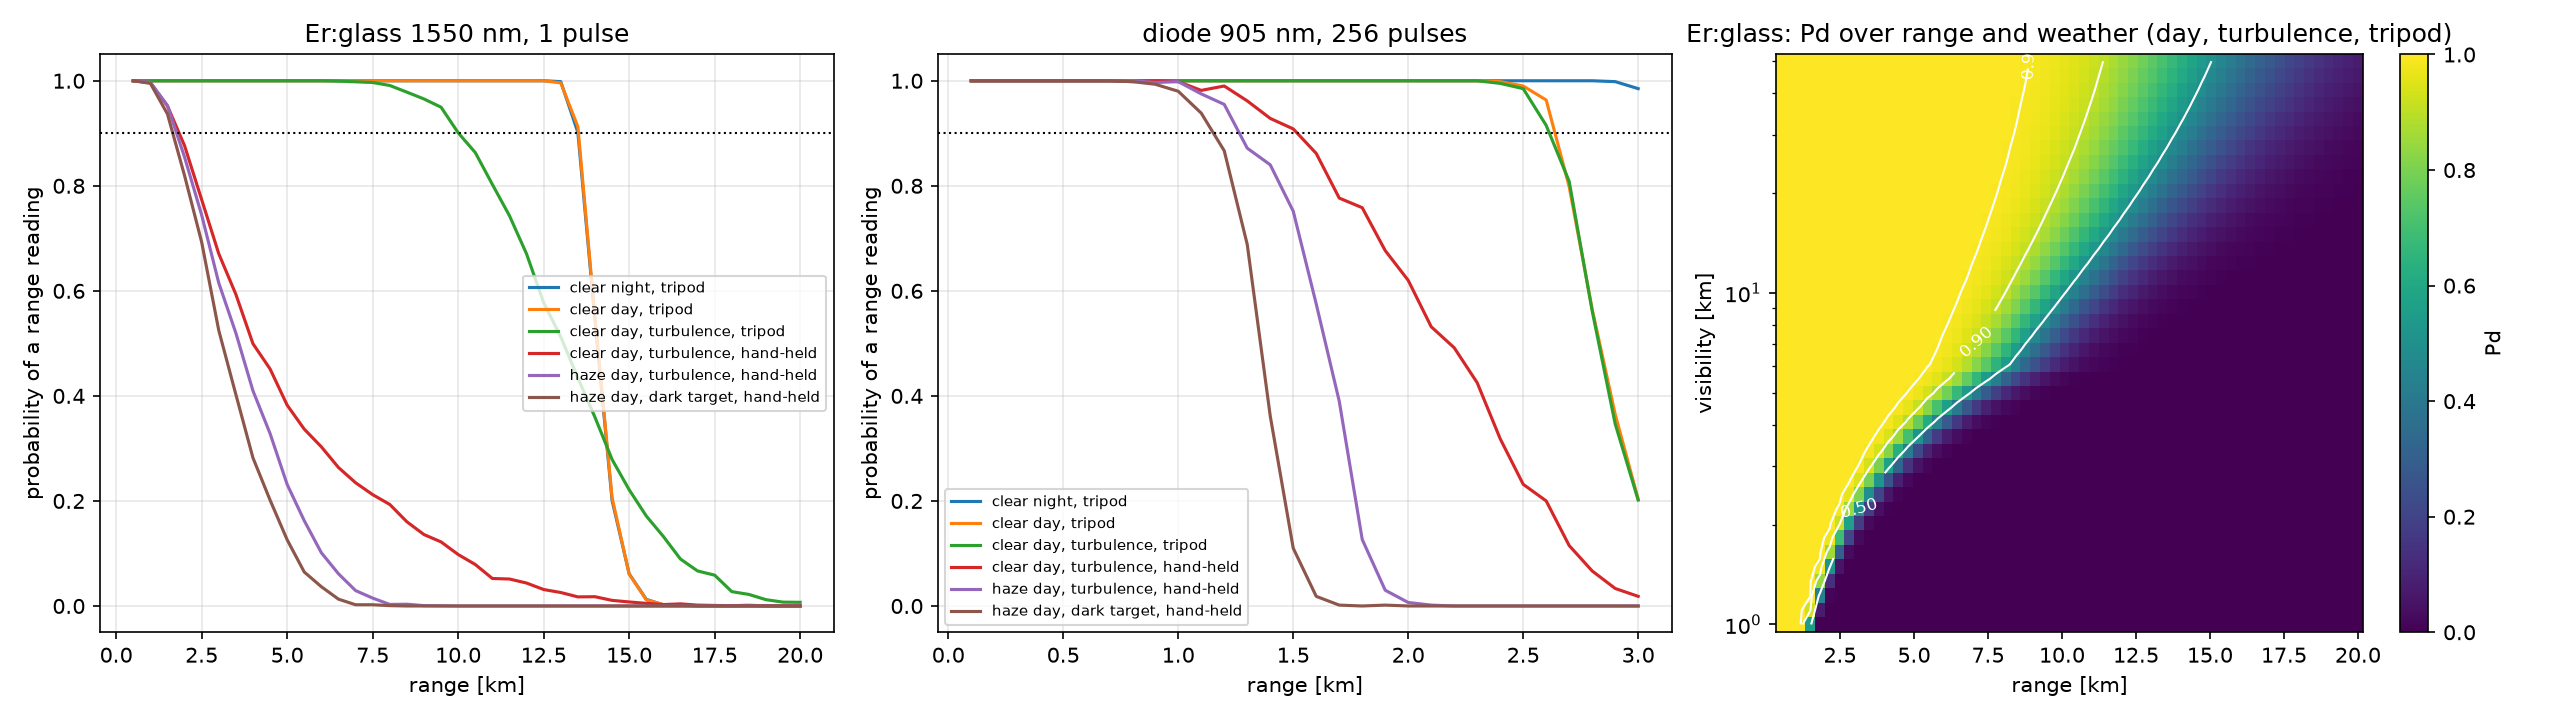
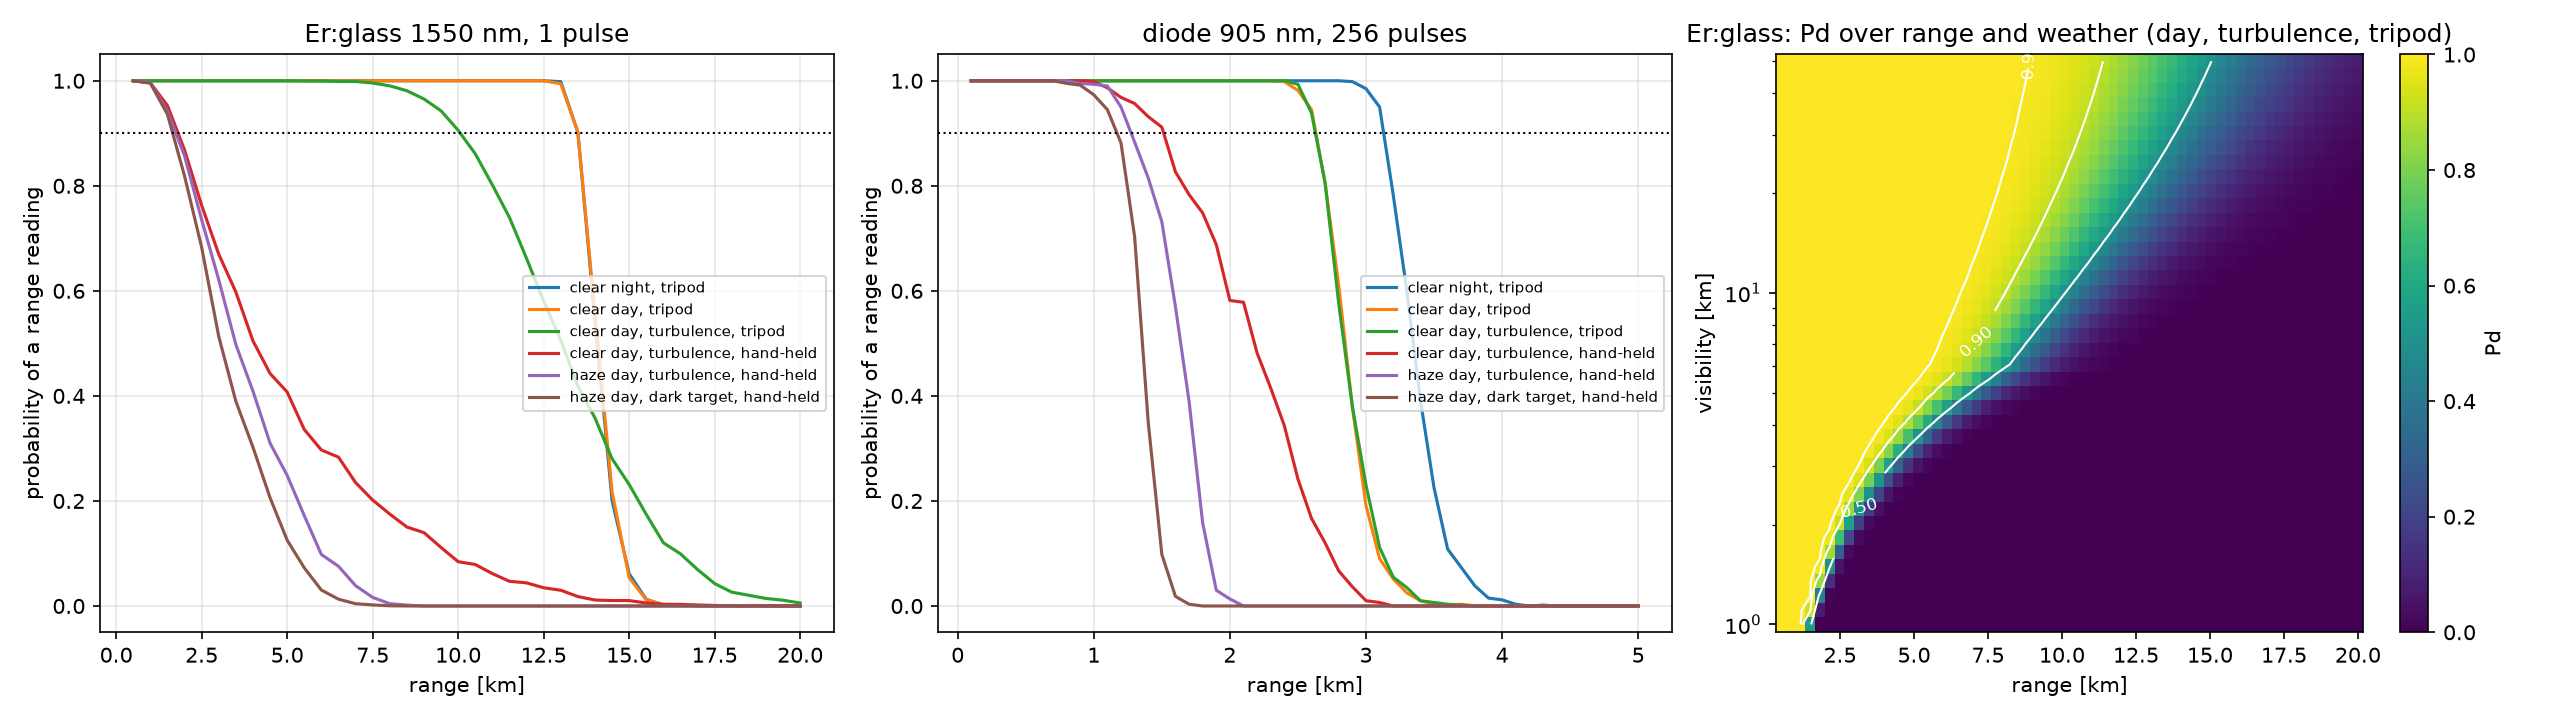
Phase 4 step 11: README, CI, interpolated range table

diff --git a/experiments/exp09_performance.py b/experiments/exp09_performance.py
@@ -48,7 +48,7 @@ CONDITIONS = {
     "haze day, turbulence, hand-held": Conditions(5.0, 1e-14, 0.5e-3, True, NATO),
     "haze day, dark target, hand-held": Conditions(5.0, 1e-14, 0.5e-3, True, Target(2.3, 0.1)),
 }
-RANGES = {"Er:glass 1550 nm, 1 pulse": np.linspace(500, 20000, 40), "diode 905 nm, 256 pulses": np.linspace(100, 3000, 30)}
+RANGES = {"Er:glass 1550 nm, 1 pulse": np.linspace(500, 20000, 40), "diode 905 nm, 256 pulses": np.linspace(100, 5000, 50)}
 TRIALS = {"Er:glass 1550 nm, 1 pulse": 3000, "diode 905 nm, 256 pulses": 600}
 
 # ---------- 1) Validation ----------
@@ -69,7 +69,9 @@ for cname, cond in CONDITIONS.items():
         R = RANGES[sname]
         pd = np.array([pd_monte_carlo(sys_, cond, r, TRIALS[sname], rng) for r in R])
         curves[(sname, cname)] = (R, pd)
-        row += f"{range_at_pd(R, pd, 0.9) / 1e3:>25.2f} km"
+        km = range_at_pd(R, pd, 0.9) / 1e3
+        cell = f"> {R[-1] / 1e3:.1f} km" if np.isnan(km) else f"{km:.2f} km"
+        row += f"{cell:>28}"
     print(f"   {cname:<36}{row}")
 
 # ---------- 4) Detection map ----------

diff --git a/src/lrfsim/performance.py b/src/lrfsim/performance.py
@@ -93,7 +93,12 @@ def pd_monte_carlo(system: System, cond: Conditions, distance: float, n_trials: 
 
 
 def range_at_pd(distances, pd_values, level: float = 0.9) -> float:
-    """First distance at which Pd falls below the level (nan if never)."""
-    d, p = np.asarray(distances), np.asarray(pd_values)
+    """Distance at which Pd first falls below the level, linearly interpolated (nan if never)."""
+    d, p = np.asarray(distances, float), np.asarray(pd_values, float)
     below = np.nonzero(p < level)[0]
-    return float(d[below[0]]) if below.size else math.nan
+    if below.size == 0:
+        return math.nan
+    i = below[0]
+    if i == 0:
+        return float(d[0])
+    return float(np.interp(level, [p[i], p[i - 1]], [d[i], d[i - 1]]))

diff --git a/tests/test_performance.py b/tests/test_performance.py
@@ -63,5 +63,5 @@ def test_analytic_refuses_aiming_error():
 
 def test_range_at_pd():
     d = np.array([1.0, 2.0, 3.0, 4.0])
-    assert range_at_pd(d, np.array([1.0, 0.95, 0.85, 0.5]), 0.9) == 3.0
+    assert range_at_pd(d, np.array([1.0, 0.95, 0.85, 0.5]), 0.9) == pytest.approx(2.5)
     assert np.isnan(range_at_pd(d, np.ones(4), 0.9))

diff --git a/README.md b/README.md
@@ -1,0 +1,131 @@
+# laser-rangefinder — pulsed laser rangefinder simulator
+
+![tests](https://github.com/SirPicklee/laser-rangefinder/actions/workflows/tests.yml/badge.svg)
+
+End-to-end physics simulation of a pulsed time-of-flight laser rangefinder (LRF), from the
+transmitted beam to the range reading and eye safety. Two designs are compared throughout:
+
+| | Er:glass 1550 nm | Laser diode 905 nm |
+|---|---|---|
+| Pulse | 5 mJ, 5 ns, 1 Hz | 2.25 µJ, 30 ns, 10 kHz |
+| Beam divergence (full) | 0.5 mrad | 1.0 mrad |
+| Receiver | InGaAs APD, Ø40 mm | Si APD, Ø25 mm |
+| Pulses per measurement | 1 | 256 |
+
+Package `lrfsim` · 90 unit tests · 11 experiments · Python 3.11+
+
+## Highlights
+
+- **Range table** (Pd ≥ 0.9 per measurement, Pfa 1e-3, NATO target 2.3 m × 2.3 m, ρ = 0.3,
+  Monte Carlo validated against the analytic model within ±0.004):
+
+  | Conditions | Er:glass 1550 nm, 1 pulse | Diode 905 nm, 256 pulses |
+  |---|---|---|
+  | clear night, tripod | 13.50 km | 3.13 km |
+  | clear day, tripod | 13.50 km | 2.63 km |
+  | clear day, turbulence, tripod | 10.06 km | 2.63 km |
+  | clear day, turbulence, hand-held | 1.81 km | 1.51 km |
+  | haze day, turbulence, hand-held | 1.75 km | 1.27 km |
+  | haze day, dark target (ρ = 0.1), hand-held | 1.65 km | 1.17 km |
+
+  Turbulence costs the single-pulse Er:glass unit 25 % of its range. The diode is not affected,
+  because averaging 256 pulses smooths out scintillation. Hand-held, the narrow 0.5 mrad Er:glass beam
+  misses the target. Aiming error, not energy, then sets the range.
+
+- **Eye safety:** at 1 ns – 1 µs the 1550 nm MPE is ~1.95 million times higher than at 905 nm.
+  The 5 mJ Er:glass unit is Class 1 with 8× margin (NOHD 0 m, even with 7×50 binoculars).
+  The 2.25 µJ diode has a 140 m NOHD (823 m with binoculars) and needs ~194× less energy for Class 1.
+  Beam expansion does not help, because the Class 1 telescope condition collects the whole beam.
+
+- **Link budget:** at 3 km the Er:glass echo is ~286 000 photons (−111 dB, of which −98.6 dB is
+  the receiver's solid angle A/R²). The diode echo is 17 photons per pulse.
+
+- **Atmosphere:** in haze, 1550 nm keeps 38 % of the light over 2 km round trip vs 17 % at 905 nm.
+  With moderate turbulence the echo fades below half in ~35 % of shots at 3 km.
+
+- **Beam divergence:** the best divergence depends on how steady the aim is.
+  It is 0.12 mrad on a tripod and ~1.2 mrad hand-held (hit probability 0.45 at 3 km).
+
+- **Range resolution:** 1 ns = 15 cm. The air index alone is a 1.35 m error at 5 km.
+  Dithering with 0.3-bin jitter averages quantization down to a 1.1 cm floor.
+
+- **Timing:** leading-edge walk is 83 cm between SNR 6 and 200. CFD keeps the bias within 3 cm.
+  The matched filter stays within 1.2–1.5× the Cramér–Rao bound (2.6 cm at SNR 20, 0.6 cm at SNR 100)
+  and stays unbiased on a clipped echo, where leading edge is off by 156 cm and CFD by 45 cm.
+
+## Model chain
+
+```
+transmitter (Gaussian beam, M²) → pointing jitter → atmosphere (Kim extinction, Rytov scintillation)
+→ Lambertian target → receiver optics → APD (McIntyre excess noise, solar background)
+→ TIA + filter + 12-bit ADC waveform → threshold (Rice, Pfa) → timing (LE / CFD / matched filter)
+→ pulse accumulation, multi-target → Monte Carlo Pd vs range → eye safety (MPE, NOHD, Class 1)
+```
+
+## Results
+
+![range performance](results/exp09_performance.png)
+![eye safety](results/exp10_eye_safety.png)
+![timing](results/exp07b_timing.png)
+![waveform](results/exp06_scope.png)
+
+## Modules
+
+| Module | Content |
+|---|---|
+| `tof` | time of flight, air index, range bin, quantization and dithering |
+| `beam` | Gaussian beam, M², power on a square target, pointing jitter |
+| `atmosphere` | Kim visibility model, Rytov variance, Andrews–Phillips scintillation, fades |
+| `linkbudget` | range equation for a Lambertian target, dB budget, photon count |
+| `detector` | APD noise (shot, dark, background, amplifier), optimum gain, solar background |
+| `waveform` | pulse, filter, noise PSD, TIA, ADC with clipping |
+| `detection` | Rice crossing rate, threshold for a Pfa, Pd with and without fading |
+| `timing` | leading edge, CFD, matched filter, walk, Cramér–Rao bound |
+| `multipulse` | coherent accumulation, binary k-of-N, multi-target detection |
+| `performance` | end-to-end Monte Carlo Pd vs range, range tables |
+| `eyesafety` | simplified IEC 60825-1: MPE, limiting aperture, repetitive pulse rules, NOHD, Class 1 |
+
+## Experiments
+
+| # | Question |
+|---|---|
+| exp01 | How fine can a clock measure range? |
+| exp02 | Which beam divergence hits a vehicle most often? |
+| exp03 | 905 vs 1550 nm in haze, fog and turbulence |
+| exp04 | Where does the light go? (link budget) |
+| exp05 | APD gain, noise and SNR vs range |
+| exp06 | What the receiver actually sees (waveform, ADC) |
+| exp07a | Threshold, false alarms and detection probability |
+| exp07b | Timing accuracy of LE, CFD and matched filter |
+| exp08 | Pulse accumulation and multiple targets |
+| exp09 | Range table under realistic conditions (Monte Carlo) |
+| exp10 | Eye safety: MPE, NOHD, Class 1 design space |
+
+## Run
+
+```
+python -m venv .venv
+.venv\Scripts\activate          # Windows
+pip install -e ".[dev]"
+pytest -q
+python experiments/exp09_performance.py
+```
+
+Figures are written to `results/`.
+
+## Limitations
+
+- Educational model, not a certified design or eye-safety tool. The eye-safety module uses the
+  conservative N^-0.25 pulse-train rule and assumes continuous firing for 10 s.
+- Flat Lambertian target, no speckle, no target depth or slope.
+- Log-normal scintillation (weak to moderate turbulence); aperture averaging is not modelled.
+- Matched-filter results assume a template identical to the echo shape.
+- Component values are typical, not taken from a specific product.
+
+## References
+
+- IEC 60825-1:2014, Safety of laser products
+- L. C. Andrews, R. L. Phillips, *Laser Beam Propagation through Random Media*
+- I. I. Kim et al., visibility-based atmospheric attenuation model (2001)
+- R. J. McIntyre, multiplication noise in avalanche diodes (1966)
+- S. O. Rice, mathematical analysis of random noise (1944)
